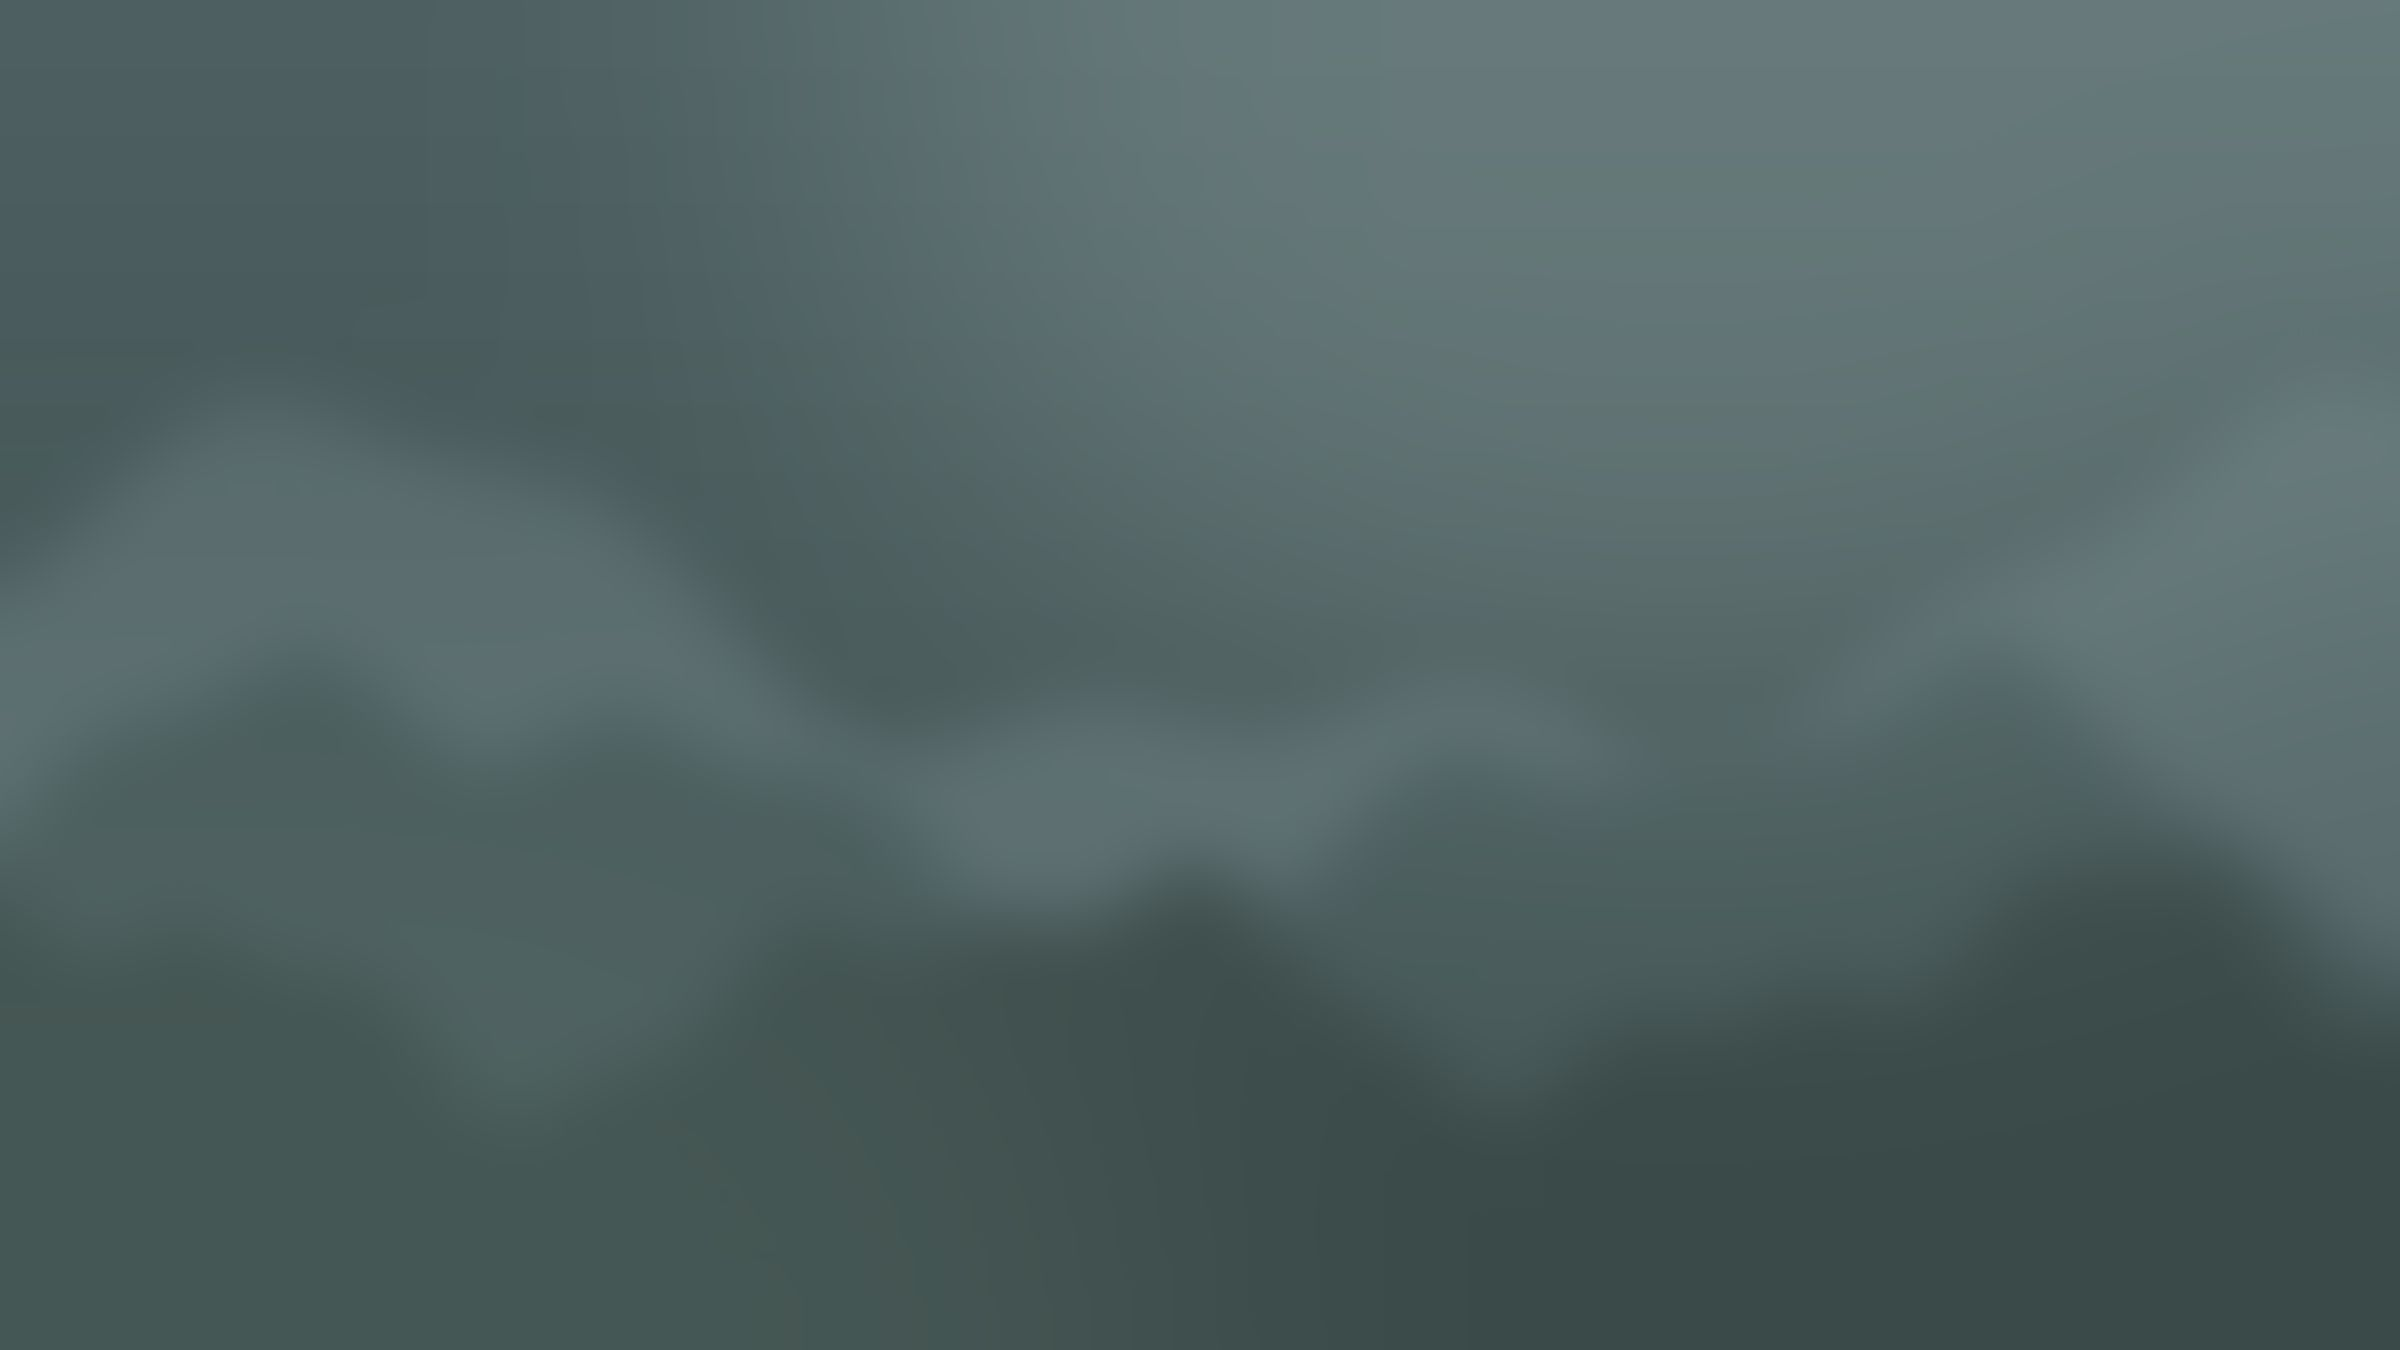
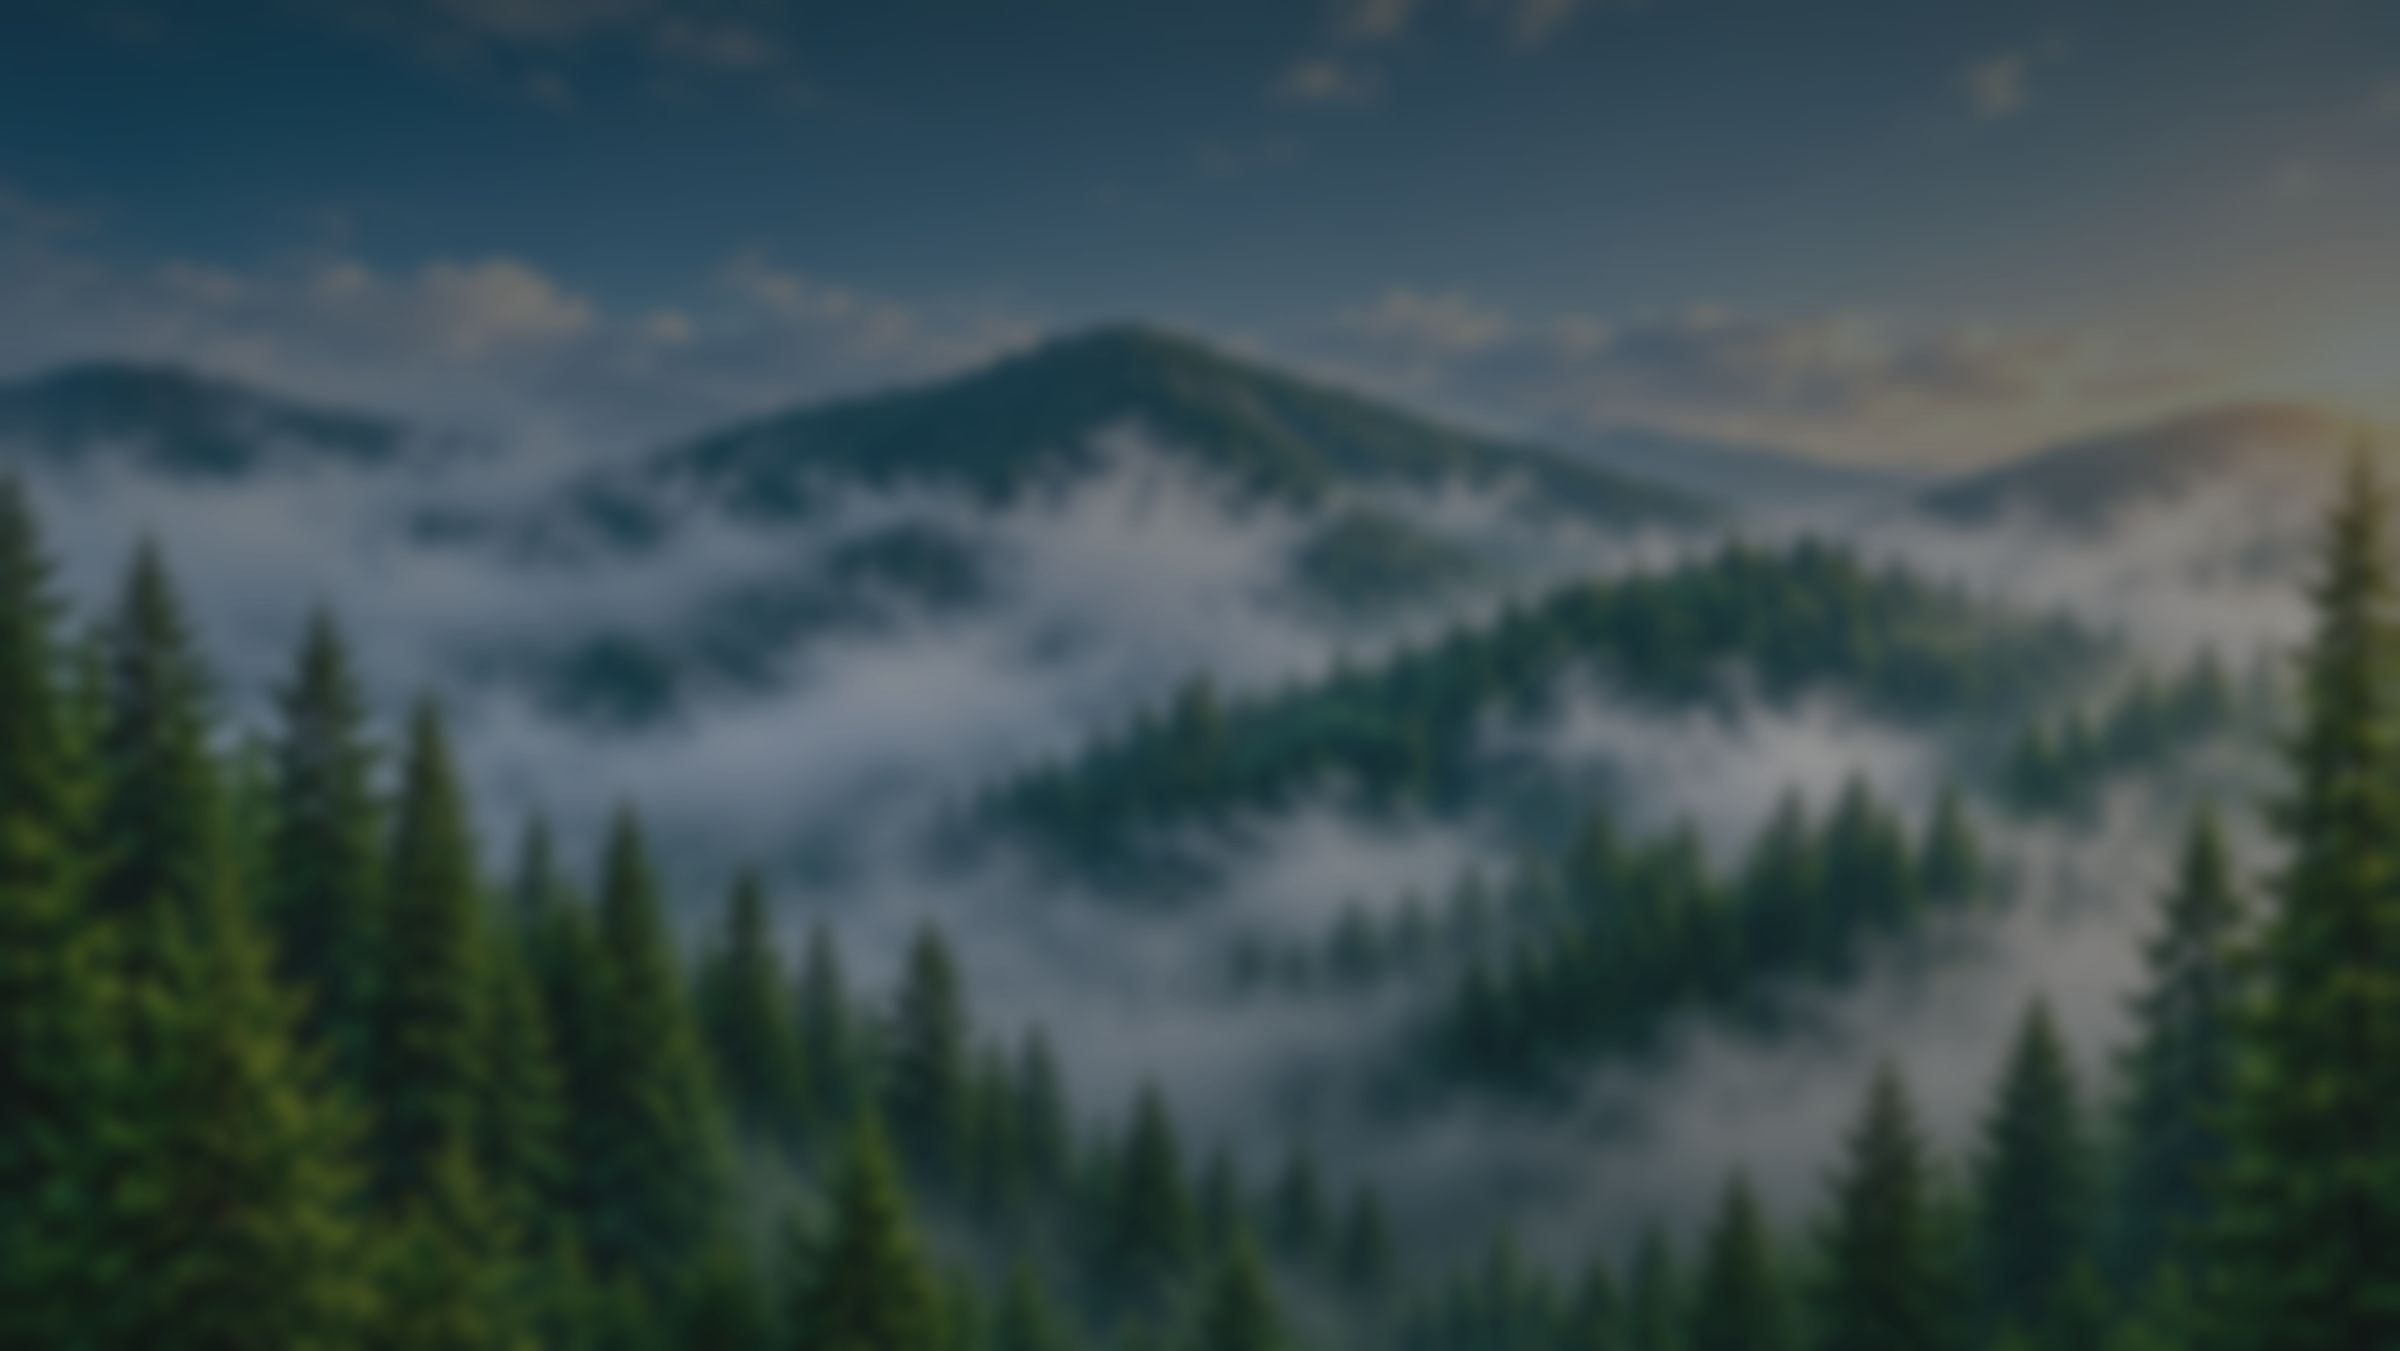
Frost theme: mountain photo background

diff --git a/styles/minawa-themes.css b/styles/minawa-themes.css
@@ -108,7 +108,7 @@ html[data-theme=dark] .shell{scrollbar-color:rgba(255,255,255,.18) transparent}
   --good:#86EFAC;--warn:#FCD34D;--bad:#FCA5A5;--info:#93C5FD;--rust-soft:rgba(255,154,117,.22);
   --shadow:0 1px 0 rgba(255,255,255,.2) inset;--shadow-float:0 12px 30px rgba(0,0,0,.35)}
 html[data-theme=frost],html[data-theme=frost] body{background:#3D4A47 url('/themes/frost.jpg') center/cover fixed no-repeat!important}
-html[data-theme=frost] body::after{content:"";position:fixed;inset:0;z-index:0;pointer-events:none;background:linear-gradient(180deg,rgba(14,22,20,.28),rgba(14,22,20,.2) 45%,rgba(10,16,14,.3))}
+html[data-theme=frost] body::after{content:"";position:fixed;inset:0;z-index:0;pointer-events:none;background:linear-gradient(180deg,rgba(10,20,18,.12),rgba(10,20,18,.18) 50%,rgba(8,14,12,.22))}
 html[data-theme=frost] .lv-aurora{display:none}
 html[data-theme=frost] .app{background:transparent;position:relative;z-index:1}
 @media screen and (min-width:901px){
